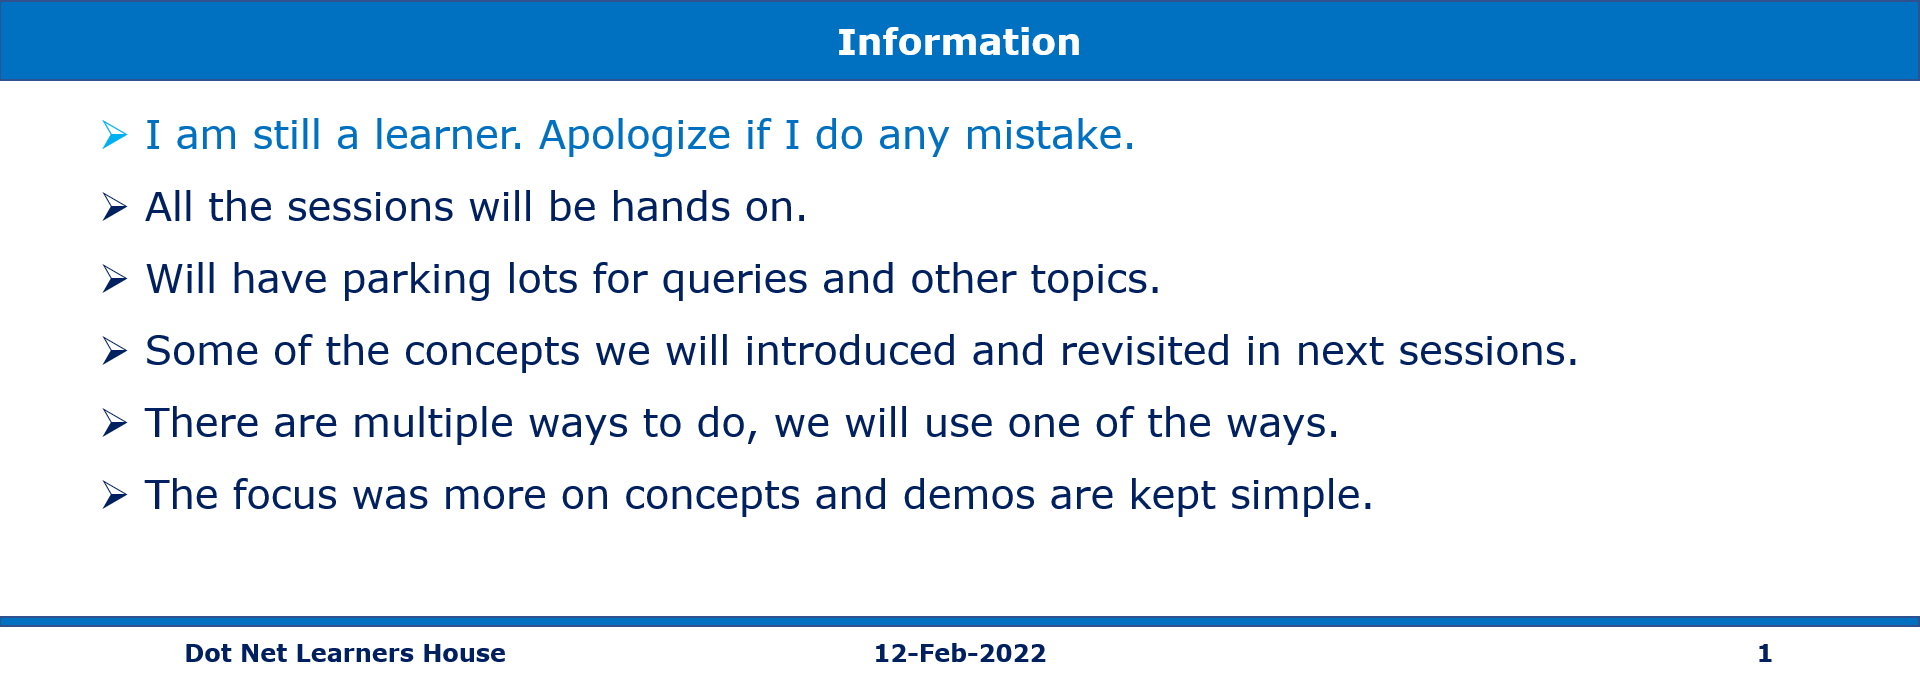
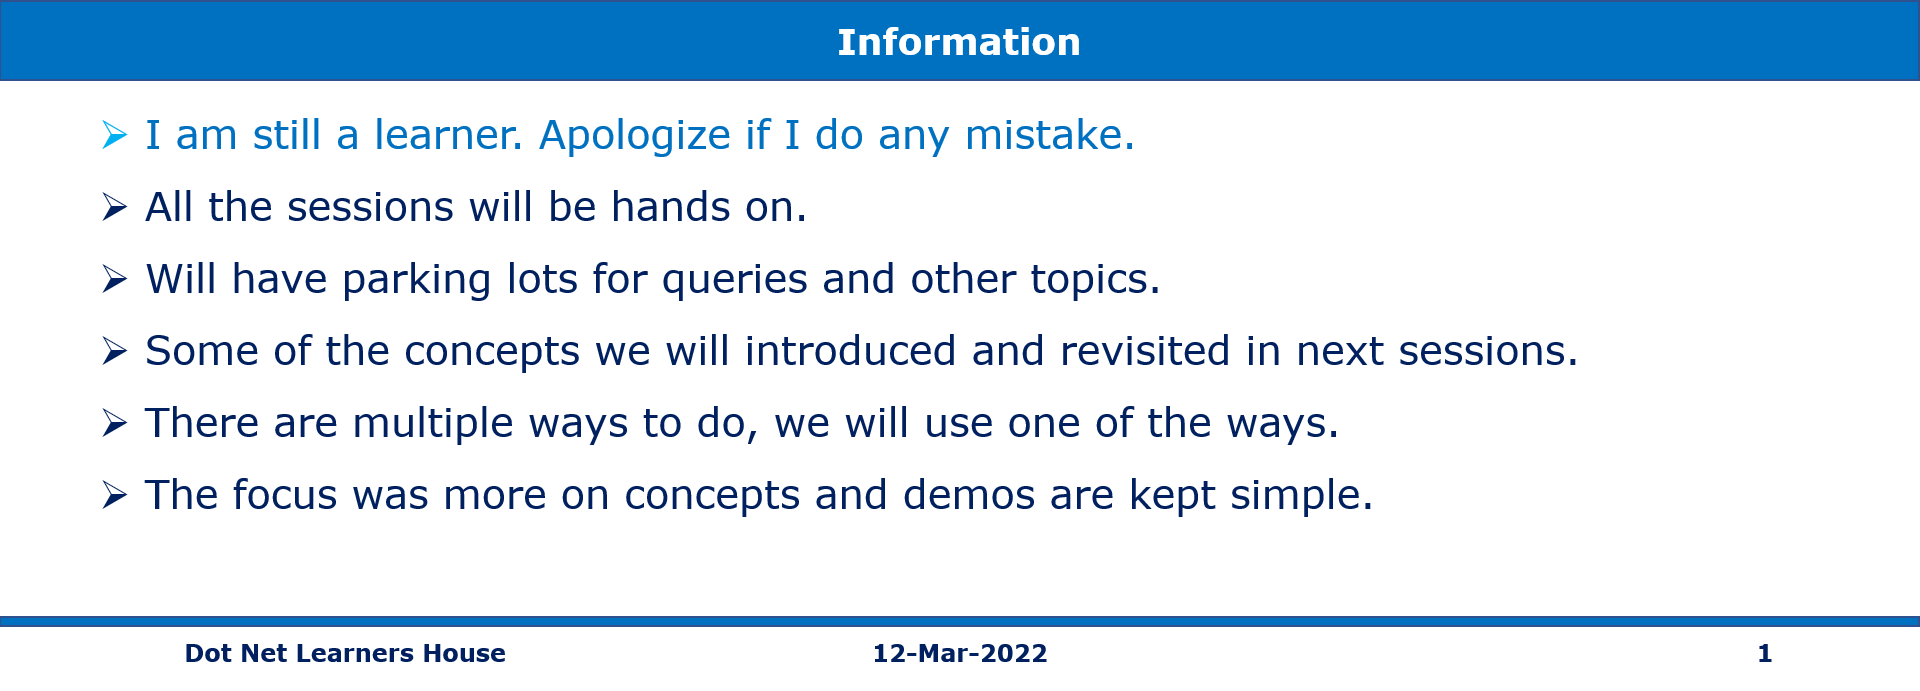
Few Changes

diff --git a/dot-net-learners-house/2022Mar12_Azure_DevOps_CICD/README.md b/dot-net-learners-house/2022Mar12_Azure_DevOps_CICD/README.md
@@ -1,8 +1,8 @@
-# Building and Deploying Cloud Native Apps in Azure
+# DevOps, CI/CD with Azure DevOps
 
-## Date Time: 12-Feb-2022 at 10:00 AM IST
+## Date Time: 12-Mar-2022 at 10:00 AM IST
 
-## Event URL: [https://www.meetup.com/dot-net-learners-house-hyderabad/events/282038867](https://www.meetup.com/dot-net-learners-house-hyderabad/events/282038867)
+## Event URL: [https://www.meetup.com/dot-net-learners-house-hyderabad/events/282179394](https://www.meetup.com/dot-net-learners-house-hyderabad/events/282179394)
 
 ![Viswanatha Swamy P K |150x150](./Documentation/Images/ViswanathaSwamyPK.PNG)
 
@@ -41,18 +41,10 @@
 
 ## What are we doing today?
 
-> 1. Some security practices
-> 1. Deploy .sqlproj Azure SQL Server
-> 1. Redis cache to store data in memory
-> 1. Cache Aside Pattern
-> 1. Azure Key Vault to store secrets of Azure SQL Server and Redis Cache
-> 1. Deploy .NET 6 Web API on Azure App Service
-> 1. Modify the Web API's Configuration to use secrets from Azure Key Vault
-> 1. Verify the Web API using Postman
-> 1. Adding APIs to API Management
-> 1. Integrate .NET 6 Blazor WASM based Single Page Application with Web API
-> 1. Deploy .NET 6 Blazor WASM based Single Page Application on Azure App Service
-> 1. Containerzing the Blazor WASM based Single Page Application
+> 1. Azure DevOps Boards
+> 1. Infrastructure as a Code
+> 1. Build Pipeline
+> 1. Release Pipeline
 > 1. SUMMARY / RECAP / Q&A
 
 ---
@@ -61,153 +53,26 @@
 
 ---
 
-**Note:** [Click here for Source Code on GitHub](https://github.com/vishipayyallore/cloudnative-dot-net6-azure)
-
-## 1. Some security practices
-
-> 1. Discussion on security practices. This is will be as part of all sections
-
-## 2. Deploy .sqlproj Azure SQL Server
-
-> 1. Discussion
-> 1. Adding Virtual Network to Azure SQL Server Firewall Rule
-> 1. Deploy .sqlproj Azure SQL Server using VS 2022
-
-## ![Connecting To SQL Azure | 100x100](./Documentation/Images/ConnectingToSQLAzure.PNG)
-
-## ![Deploying To SQL Azure | 100x100](./Documentation/Images/DeployingToSQLAzure.PNG)
-
-## 3. Redis cache to store data in memory
-
-> 1. Discussion
-
-## ![Data In Azure Redis Cache | 100x100](./Documentation/Images/DataInAzureRedisCache.PNG)
-
-## 4. Cache Aside Pattern
+## 1. Azure DevOps Boards
 
 > 1. Discussion and Demo
 
-## ![Simple Cache Aside Pattern | 100x100](./Documentation/Images/SimpleCacheAsidePattern.PNG)
 
-## 5. Azure Key Vault to store secrets of Azure SQL Server and Redis Cache
-
-> 1. Discussion
-> 1. Show casing the Purge protection of Redis Cache
-> 1. We will store the Azure SQL Server and Redis Cache secrets in Azure Key Vault.
-
-**SqlServerConnectionString**
-
-```
-Server=tcp:YourServer.database.windows.net,1433;Initial Catalog=sqldb-booksstore;Persist Security Info=False;User ID=demouser;Password=YourPassword;MultipleActiveResultSets=False;Encrypt=True;TrustServerCertificate=False;Connection Timeout=30;
-```
-
-**RedisConnectionString**
-
-```
-YourRedis.redis.cache.windows.net:6380,password=YourPassword=,ssl=True,abortConnect=False
-```
-
-## ![Secrets In Azure Key Vault | 100x100](./Documentation/Images/SecretsInAzureKeyVault.PNG)
-
-## 6. Deploy .NET 6 Web API on Azure App Service
-
-> 1. Discussion
-> 1. Secrets.json
-> 1. Dependency Injection
-> 1. Deploy .NET 6 Web API on Azure App Service using Visual Studio 2022
-
-## ![Publish Web API To Azure | 100x100](./Documentation/Images/PublishWebAPIToAzure.PNG)
-
-## 7. Modify the Web API's Configuration to use secrets from Azure Key Vault
-
-> 1. Discussion
-> 1. Modify the Web API's Configuration to use secrets from Azure Key Vault
-> 1. Verify the Web API endpoint using Chrome. It will NOT work.
-> 1. Enable the IP address of the Web API inside the SQL Server Fire Wall Rule.
-> 1. Verify the Web API endpoint using Chrome. It will work.
-
-```
-https://YourKeyVault.vault.azure.net/secrets/SqlServerConnectionString/5038a0ac6f2c4dc6adb0098517c09253
-DataStoreSettings__SqlServerConnectionString
-@Microsoft.KeyVault(SecretUri=https://YourKeyVault.vault.azure.net/secrets/SqlServerConnectionString/5038a0ac6f2c4dc6adb0098517c09253)
-```
-
-```
-https://YourKeyVault.vault.azure.net/secrets/RedisConnectionString/80a3cc12fb74470ca7812951bebadb6c
-DataStoreSettings__RedisConnectionString
-@Microsoft.KeyVault(SecretUri=https://YourKeyVault.vault.azure.net/secrets/RedisConnectionString/80a3cc12fb74470ca7812951bebadb6c)
-
-```
-
-## ![AppSettings Azure Key Vault Reference | 100x100](./Documentation/Images/AppSettings_AzureKeyVaultReference.PNG)
-
-## ![Permission To Azure Key Vault | 100x100](./Documentation/Images/PermissionToAzureKeyVault.PNG)
-
-## 8. Verify the Web API using Postman
-
-> 1. Discussion
-> 1. Verify the Web API using Postman
-
-## 9. Adding APIs to API Management
+## 2. Infrastructure as a Code
 
 > 1. Discussion and Demo
 
-```
-<cors>
-    <allowed-origins>
-        <origin>https://localhost:7223/</origin>
-        <origin>https://app-booksstoreweb-12feb-dev.azurewebsites.net/</origin>
-    </allowed-origins>
-    <allowed-methods preflight-result-max-age="300">
-        <method>*</method>
-    </allowed-methods>
-    <allowed-headers>
-        <header>*</header>
-    </allowed-headers>
-</cors>
-
-```
-
-## 10. Integrate .NET 6 Blazor WASM based Single Page Application with Web API
+## 3. Build Pipeline
 
 > 1. Discussion
-> 1. Integrate .NET 6 Blazor WASM based Single Page Application with Web API
 
-**appsettings.json**
+## ![Build Pipeline to Build SQLDacPac from .sqlproj | 100x100](./Documentation/Images/BuildPipelineSQLDacPac.PNG)
 
-```
-"WebApis": {
-    "Books_API": "https://app-booksstoreapi-12feb-dev.azurewebsites.net",
-    "Books": "https://apimdnlh12febprod.azure-api.net/devapim/",
-    "ApimSubscriptionKey": "YourSubscriptionKey"
-  },
-```
+## 4. Release Pipeline
 
-## 11. Deploy .NET 6 Blazor WASM based Single Page Application on Azure App Service
+> 1. Discussion and Demo
 
-> 1. Discussion
-> 1. Deploy .NET 6 Blazor WASM based Single Page Application on Azure App Service
-
-## ![Blazor WASM In Azure | 100x100](./Documentation/Images/BlazorWASMInAzure.PNG)
-
-## 12. Containerzing the Blazor WASM based Single Page Application
-
-> 1. Dockerfile Discussion
-> 1. Change the directory to D:\LordKrishna\GitHub\cloudnative-dot-net6-azure\source\web
-> 1. Execute below mentioned command to build the container
-> 1. Execute the below mentioned command to run the container
-
-```
-docker build -f "D:\LordKrishna\GitHub\cloudnative-dot-net6-azure\source\web\Books.Web\Dockerfile" --force-rm -t booksdemo-image "D:\LordKrishna\GitHub\cloudnative-dot-net6-azure"
-```
-
-![Create Blazor Wasm Docker Image | 100x100](./Documentation/Images/BlazorWasmCreateDocker.PNG)
-
-```
-docker run -d -p 8091:80 --name demo-container1 booksdemo-image
-```
-
-![Running The Books Blazor WASM Container | 100x100](./Documentation/Images/RunningTheBooksContainer.PNG)
+## ![Release Pipeline to Deploy SQLDacPac To Azure | 100x100](./Documentation/Images/ReleasePipelineSQLDacPac.PNG)
 
 ---
 
